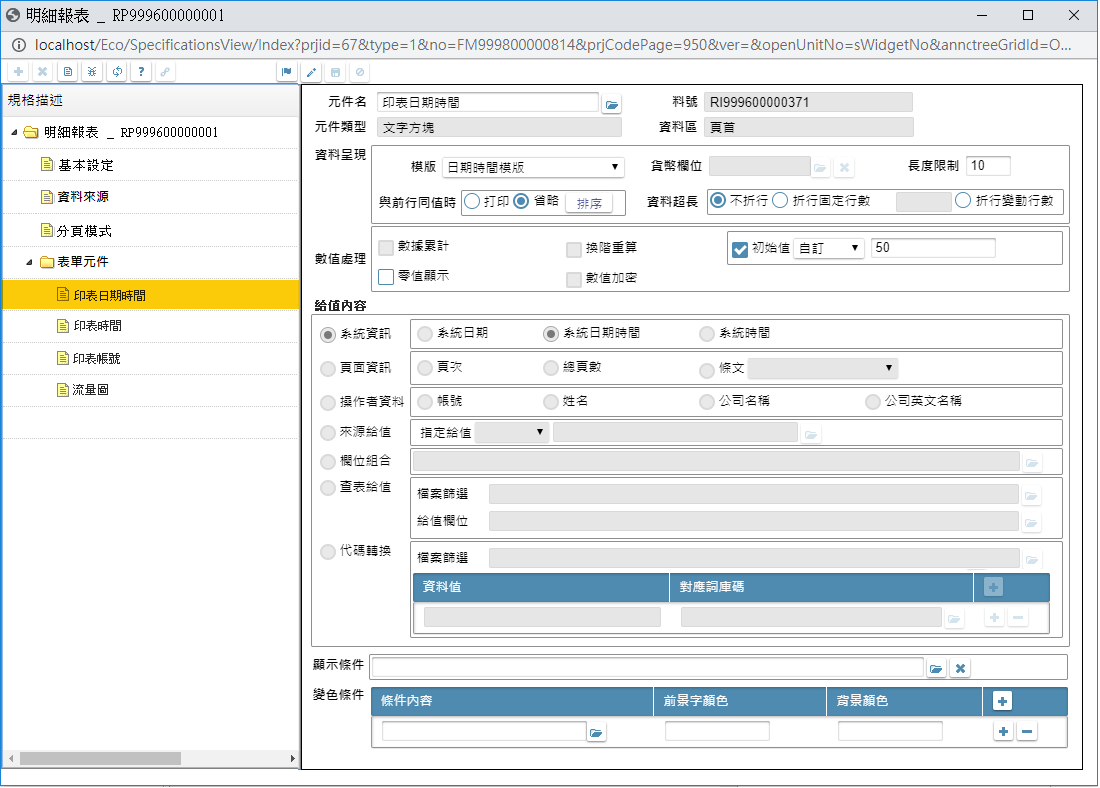
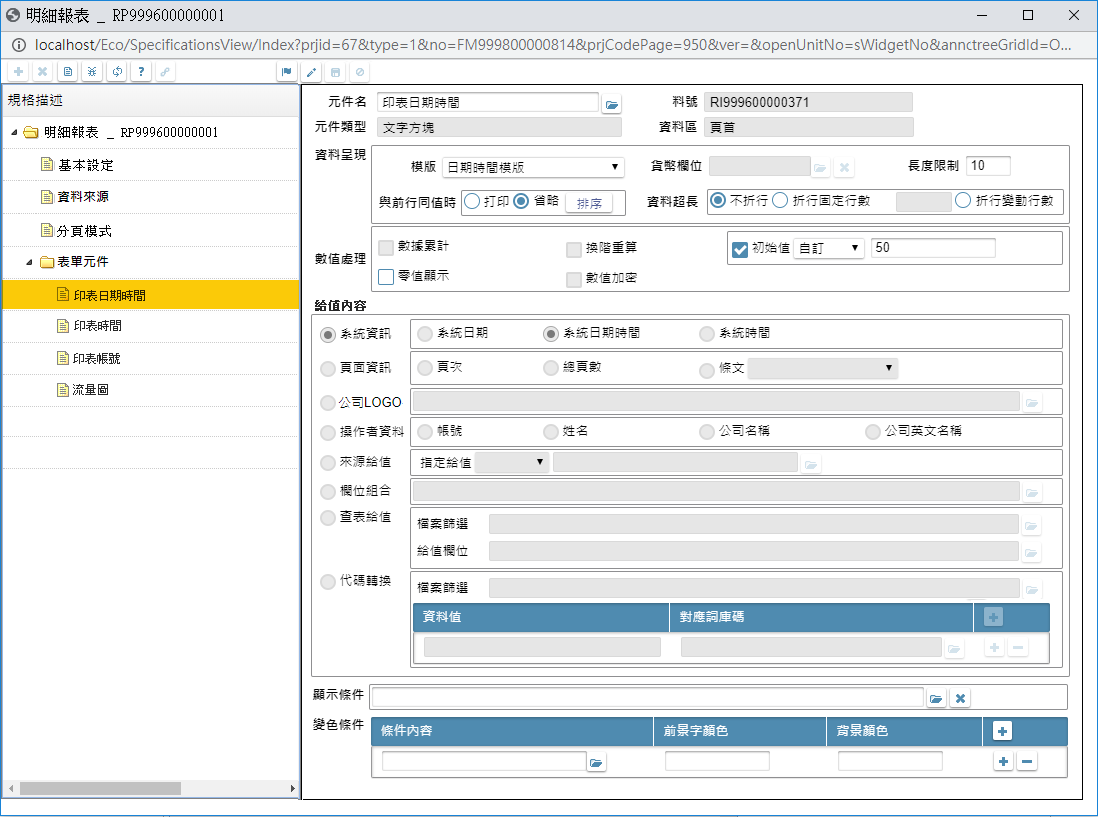
8.10.1 本版異動: ITEM_2:報表規格定義

Changed region(s): [[0.0, 0.0, 0.9891, 1.0]]

diff --git a/8.10.1/UPDATE/ITEM_2/IDE/ReportObjectAnnotation/OtherWidget.md b/8.10.1/UPDATE/ITEM_2/IDE/ReportObjectAnnotation/OtherWidget.md
@@ -100,7 +100,7 @@
     * `(1)給值內容`
         * 用途說明
         * 規格說明
-            * 單一選項: 系統資訊 / 頁面資訊 / 操作者資料 / 來源給值 / 欄位組合 / 查表給值 / 代碼轉換
+            * 單一選項: 系統資訊 / 頁面資訊 / 公司LOGO / 操作者資料 / 來源給值 / 欄位組合 / 查表給值 / 代碼轉換
     * `(2)系統資訊`
         * 用途說明
         * 規格說明
@@ -115,20 +115,25 @@
         * 用途說明
         * 規格說明
             * 當`(3)頁面資訊`=條文, 則 致能, 否則 除能
-    * `(5)操作者資料`
+    * `(5)公司LOGO`
+        * 用途說明
+        * 規格說明
+            * 當[基本][link_basic_fieldbreak1]的`元件類型`=rLogo.企業標誌, 則 顯示, 否則 隱藏 
+            * 開啟[圖示設定][link_icon], 回傳: 圖示名稱      
+    * `(6)操作者資料`
         * 用途說明
         * 規格說明
             * 當`(1)給值內容`=操作者資料, 則 致能, 否則 除能
             * 單一選項: 帳號 / 姓名 / 公司名稱 / 公司英文名稱
-    * `(6)來源給值`
+    * `(7)來源給值`
         * 用途說明
         * 規格說明
-    * `(7)指定給值`
+    * `(8)指定給值`
         * 用途說明
         * 規格說明
             * 當`(1)給值內容`=來源給值, 則 致能, 否則 除能
             * 下拉選項: 檔案資料 / 輸入參數 / 報表元件 
-    * `(8)指定給值_內容`
+    * `(9)指定給值_內容`
         * 用途說明
         * 規格說明
             * 本欄位唯讀
@@ -138,22 +143,22 @@
             * 當`(7)指定給值`=輸入參數, 參照 [挑選報表參數通則][link_ruledialog9], 從駐留報表中, 進行報表參數挑選, 回傳: 報表參數
             * 當`(7)指定給值`=報表元件, 參照 [挑選報表元件通則][link_ruledialog15], 從駐留報表中, 進行報表元件挑選, 回傳: 報表元件
             * 變色顯示, 請參照 [個資加密提示通則][link_ruleother11]
-    * `(9)欄位組合`
+    * `(10)欄位組合`
         * 用途說明
         * 規格說明
             * 本欄位唯讀
             * 當`(1)給值內容`=欄位組合, 則 致能, 否則 除能
             * 參照 [操作運算式通則][link_ruledialog18], 限定: 不允查表, 回傳: 運算式說明
-    * `(10)查表給值`
+    * `(11)查表給值`
         * 用途說明
         * 規格說明
-    * `(11)查表給值_檔案篩選`
+    * `(12)檔案篩選`
         * 用途說明
         * 規格說明
             * 本欄位唯讀
             * 當`(1)給值內容`=查表給值, 則 致能, 否則 除能
             * 參照 [操作條件式通則][link_ruledialog1], 回傳: 條件說明
-    * `(12)給值欄位`
+    * `(13)給值欄位`
         * 用途說明
         * 規格說明
             * 本欄位唯讀
@@ -162,27 +167,27 @@
                 * 確定: 關閉訊息盒
             * 當`(10)查表給值_檔案篩選`的處理類別=資料表, 參照 [挑選資料表元件通則][link_ruledialog5]，從`資料來源_內容`中, 進行資料表元件挑選, 限定: 不為密碼處理, 且不為個資加密的欄位, 回傳: 資料表元件.
             * 當`(10)查表給值_檔案篩選`的處理類別=檢視表, 參照 [挑選檢視表元件通則][link_ruledialog8], 從`資料來源_內容`中, 進行檢視表元件挑選, 限定: 不為密碼處理, 且不為個資加密及個資加密已解密的欄位, 回傳: 檢視表元件.
-    * `(13)代碼轉換`
+    * `(14)代碼轉換`
         * 用途說明
         * 規格說明
-    * `(14)代碼轉換_檔案篩選`
+    * `(15)檔案篩選`
         * 用途說明
         * 規格說明
             * 本欄位唯讀
             * 當`(1)給值內容`=代碼轉換, 則 致能, 否則 除能
             * 當[報表_資料來源][link_RADataSouce]`資料來源_類別`=檢視表, 參照 [挑選檢視表元件通則][link_ruledialog8], 從`資料來源_內容`中, 進行檢視表元件挑選, 限定: 不為密碼處理, 且不為個資加密及個資加密已解密的欄位, 回傳: 檢視表元件.
             * 當[報表_資料來源][link_RADataSouce]`資料來源_類別`=資料表, 參照 [挑選資料表元件通則][link_ruledialog5]，從`資料來源_內容`中, 進行資料表元件挑選, 限定: 不為密碼處理, 且不為個資加密的欄位, 回傳: 資料表元件.
-    * `(15)代碼轉換表格`
+    * `(16)代碼轉換表格`
         * 用途說明
         * 規格說明
             * 當`(1)給值內容`=代碼轉換, 則 致能, 否則 除能
             * 參照 [操作表格記錄通則][link_rulebutton3]
 			* 表格列數最高顯示**3**列, 超過出現垂直捲軸
-    * `(16)資料值`
+    * `(17)資料值`
         * 用途說明
         * 規格說明
             * 使用者自行輸入
-    * `(17)對應詞庫碼`
+    * `(18)對應詞庫碼`
         * 用途說明
         * 規格說明
             * 本欄位唯讀
@@ -223,8 +228,10 @@
 [image_other_widget_block4]:attachment/ReportObjectAnnotation_OtherWidget_block4.png
 
 <!-- 超連結 -->
+[link_basic_fieldbreak1]:README#fieldbreak1 "報表元件/基本"
 [object_print_sorting_list]:ReportObjectNoPrintSortingList.md
 [link_RADataSouce]:{1}/RADataSource/README#fieldbreak1 "報表資料來源"
+[link_icon]:{4}/IDE/Specification/Icon/README "圖示設定"
 
 [link_ruledialog1]:{4}/IDE/Specification/RulesDialog/README#ruledialog1 "共用通則_開啟單據/操作條件式通則"
 [link_ruledialog2]:{4}/IDE/Specification/RulesDialog/README#ruledialog2 "共用通則_開啟單據/使用多語詞庫通則"

diff --git a/8.10.1/UPDATE/ITEM_2/IDE/ReportObjectAnnotation/README.md b/8.10.1/UPDATE/ITEM_2/IDE/ReportObjectAnnotation/README.md
@@ -48,11 +48,45 @@
 ## <div id="save-action">儲存檢控</div>
 
 * 以下欄位符合條件時, 顯示訊息盒, 顯示規則參照 [存回不允空白檢控通則][link_ruleother7]
-    * 當`(5)參數名`=空值
-    * 當`(6)型態`=請選擇
+    * [資料呈現][link_otherwidget_fieldbreak1]
+        * 當`長度`=空值
+        * 當`資料超長`=折行固定行數, 且`折行固定行數`=空值
+    * [數值處理][link_otherwidget_fieldbreak2]
+        * 當`初始值`已勾選, 且`初始值_類別`未選取任何選項
+        * 當`初始值_類別`已選取選項, 且`初始值_內容`=空值
+    * [給值內容][link_otherwidget_fieldbreak3]
+        * 當`給值內容`未選取任何選項
+        * 當`給值內容`=系統資訊, 且系統資訊選項區塊未選取任何選項
+        * 當`給值內容`=頁面資訊, 且頁面資訊選項區塊未選取任何選項
+            * 頁面資訊選項=條文, 且`頁面資訊_條文`=空值
+        * 當`給值內容`=公司LOGO, 且`公司LOGO`=空值
+        * 當`給值內容`=操作者資料, 且操作者資料選項區塊未選取任何選項
+        * 當`給值內容`=來源給值, 且`指定給值`=空值
+        * 當`給值內容`=來源給值, 且`指定給值_內容`=空值
+        * 當`給值內容`=欄位組合，`欄位組合`=空值
+        * 當`給值內容`=查表給值, 且`檔案篩選`=空值
+        * 當`給值內容`=查表給值, 且`給值欄位`=空值
+        * 當`給值內容`=代碼轉換, 且`檔案篩選`=空值
+        * 當`給值內容`=代碼轉換, 且`代碼轉換表格`表格存在記錄, 且`資料值`=空值
+        * 當`給值內容`=代碼轉換, 且`代碼轉換表格`表格存在記錄, 且`對應詞庫碼`=空值
+    * [附加條件][link_otherwidget_fieldbreak4]
+        * 當`變色條件表格`存在記錄, 且`條件內容`=空值
+    * [圖表類型區塊][link_rEchart_fieldbreak1]
+        * 當[基本][link_fieldbreak1]的`元件類型`=rEChart.嵌入圖表, 且`圖表類型`=空值
+        * 當`可空白`為未勾選, 且`來源型態`=空值
+        * 當`來源型態`<>空值, 且`來源內容`=空值
 	
 * 以下欄位符合條件時, 顯示訊息盒, 顯示規則參照 [存回其它檢控通則][link_ruleother8]
-	* 當`(5)參數名`存在空白字元, 錯誤訊息內容: 參數名:`(5)參數名`, 不允有空白字元
+    * 當[資料呈現][link_otherwidget_fieldbreak1]的`長度`內容不為數值, 顯示錯誤訊息內容: 長度須入為數值
+    * 當[附加條件][link_otherwidget_fieldbreak4]的`變色條件表格`存在記錄, 且`前景字顏色`、`背景顏色`皆為空, 顯示錯誤訊息內容: 前景字顏色跟背景顏色，不可同時空白
+    * 當[給值內容][link_otherwidget_fieldbreak3]的`給值內容`=代碼轉換, 且`代碼轉換表格`無任何記錄, 顯示錯誤訊息內容: 給值內容等於代碼轉換時, 則代碼轉換表格至少存在一筆記錄
+    * 圖示用途, 必須是LOGO
+    * 當[基本][link_fieldbreak1]的`元件類型`=rLogo.企業標誌, 且[給值內容][link_otherwidget_fieldbreak3]的給值內容<>公司LOGO, 顯示錯誤訊息內容: 當報表元件類型='LOGO' 時, 加註時限定資料來源選項只能是公司LOGO
+    * 當[基本][link_fieldbreak1]的`元件類型`<>rLogo.企業標誌, 且[給值內容][link_otherwidget_fieldbreak3]的給值內容=公司LOGO, 顯示錯誤訊息內容: 當報表元件類型<>'LOGO' 時, 加註時限定資料來源選項不可以是公司LOGO
+    * 當[給值內容][link_otherwidget_fieldbreak3]的`給值內容`=來源給值, 依`指定給值_內容`取得對應的資料型態, 若為數值型態, 且[資料呈現][link_otherwidget_fieldbreak1]`模版`的`模版組成`不為數字或貨幣, 顯示錯誤訊息內容: 當元件加註有指定模版時, 模版的型態與對應欄位的型態必須對應一致  
+    * 當[數值處理][link_otherwidget_fieldbreak2]的`數據累計`為勾選時, 則[給值內容][link_otherwidget_fieldbreak3]的`給值內容`<>來源給值或欄位組合, 顯示錯誤訊息內容: 加註內容含有查表，系統暫不提供查表欄位的累計，請重新設定加註內容
+    
+    
 
 <!-- 圖片 -->
 [image_basic]:attachment/ReportObjectAnnotation_Basic.png
@@ -61,6 +95,11 @@
 
 <!-- 超連結 -->
 [link_fieldbreak1]:#fieldbreak1 "欄位說明/基本"
+[link_otherwidget_fieldbreak1]:OtherWidget#fieldbreak1 "欄位說明/資料呈現"
+[link_otherwidget_fieldbreak2]:OtherWidget#fieldbreak2 "欄位說明/數值處理"
+[link_otherwidget_fieldbreak3]:OtherWidget#fieldbreak3 "欄位說明/給值內容"
+[link_otherwidget_fieldbreak4]:OtherWidget#fieldbreak4 "欄位說明/附加條件"
+[link_rEchart_fieldbreak1]:rEchart#fieldbreak1 "欄位說明/圖表類型區塊"
 [link_ruleother1]:{4}/IDE/Specification/RulesOther/README#ruleother1 "共用通則_其它/版面資訊通則"
 [link_ruleother7]:{4}/IDE/Specification/RulesOther/README#ruleother7 "共用通則_其它/存回不允空白檢控通則"
 [link_ruleother8]:{4}/IDE/Specification/RulesOther/README#ruleother8 "共用通則_其它/存回其它檢控通則"

diff --git a/8.10.1/UPDATE/ITEM_2/IDE/ReportObjectAnnotation/rEchart.md b/8.10.1/UPDATE/ITEM_2/IDE/ReportObjectAnnotation/rEchart.md
@@ -5,7 +5,7 @@
     ![pic][image_rEchart]
 
 ## 欄位設定
-* <p id="fieldbreak1" style="color:blue;">圖表元件</p>
+* <p id="fieldbreak1" style="color:blue;">圖表類型區塊</p>
 
     * ![pic][image_rEchart_block1]
     * `(1)圖表類型函數選取`
